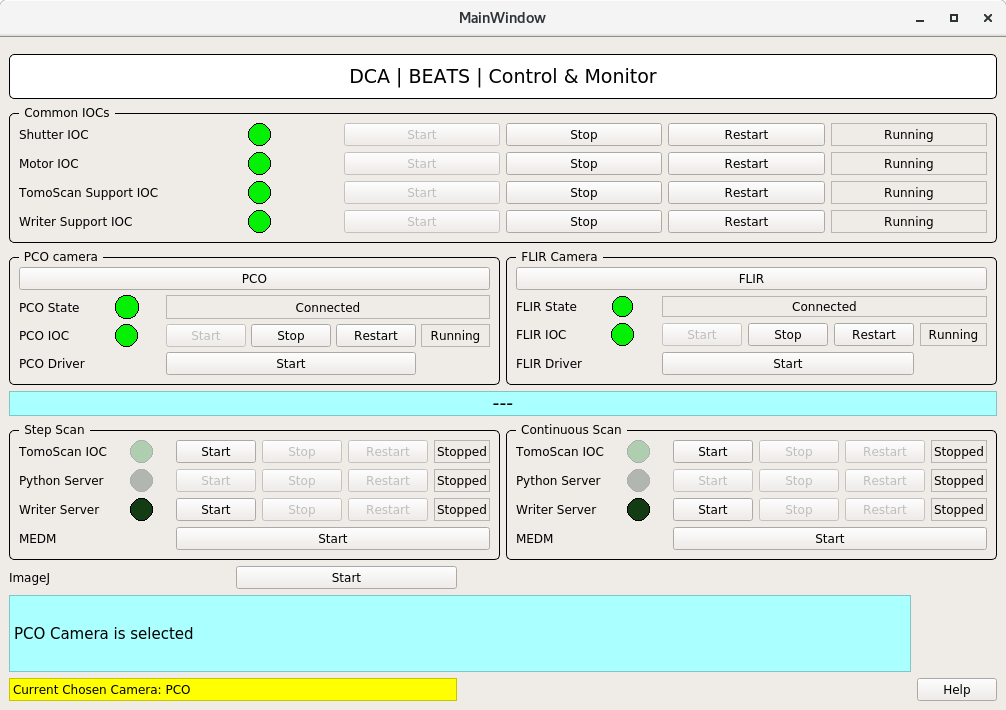
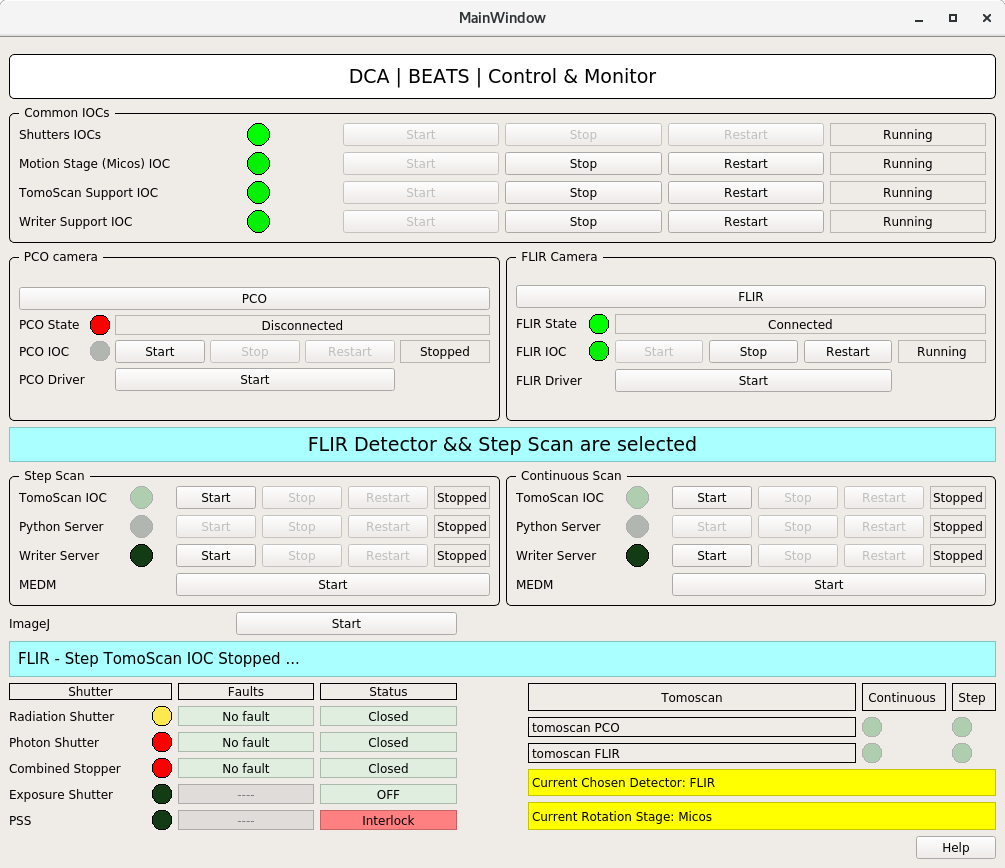
update, this version before final testing

diff --git a/BEATS_DAQ_Control_Monitor/mainwindow.cpp b/BEATS_DAQ_Control_Monitor/mainwindow.cpp
@@ -33,7 +33,7 @@ MainWindow::MainWindow(QWidget *parent)
     this->radiationShutterIOC         = new QEpicsPV("I10FE-PSS-PHST:getStatus");
     this->photonShutterIOC            = new QEpicsPV("I10FE-VA-PSH:getStatus");
     this->combinedStopperIOC          = new QEpicsPV("I10OH-VA-COMB:getStatus");
-    this->PSSIOC                      = new QEpicsPV("I10EH-SHUTTER:command");
+    this->PSSIOC                      = new QEpicsPV("I10OH-VA-COMB:isPSSInterlock");
 
     this->radiationShutterFault       = new QEpicsPV("I10FE-PSS-PHST:getFault");
     this->photonShutterFault          = new QEpicsPV("I10FE-VA-PSH:getFault");
@@ -70,7 +70,7 @@ MainWindow::MainWindow(QWidget *parent)
     this->radiationShutterIOC_SEVR    = new QEpicsPV("I10FE-PSS-PHST:getStatus.SEVR");
     this->photonShutterIOC_SEVR       = new QEpicsPV("I10FE-VA-PSH:getStatus.SEVR");
     this->combinedStopperIOC_SEVR     = new QEpicsPV("I10OH-VA-COMB:getStatus.SEVR");
-    this->PSSIOC_SEVR                 = new QEpicsPV("I10EH-SHUTTER:command.SEVR");
+    this->PSSIOC_SEVR                 = new QEpicsPV("I10OH-VA-COMB:isPSSInterlock.SEVR");
 
     this->PCO_TomoScanIOCStep_SEVR   = new QEpicsPV("tomoscanBEATS:PcoMicosStep:ScanStatus.SEVR");
     this->PCO_PythonServerStep_SEVR  = new QEpicsPV("tomoscanBEATS:PcoMicosStep:ServerRunning.SEVR");
@@ -553,6 +553,7 @@ void MainWindow::checkStatusH()
    radiationShutter              = this->radiationShutterIOC->get().toInt();
    photonShutter                 = this->photonShutterIOC->get().toInt();
    combinedStopper               = this->combinedStopperIOC->get().toInt();
+   PSS                           = this->PSSIOC->get().toBool();
 
    radiationShutterFault_        = this->radiationShutterFault->get().toInt();
    photonShutterFault_           = this->photonShutterFault->get().toInt();
@@ -587,7 +588,7 @@ void MainWindow::checkStatusH()
 //            ui->shutterIOCSts->setText(stopped);
 //    }
 
-       if (exposureShutterIOC_SEVR_ != NULL or radiationShutterIOC_SEVR_ != NULL or photonShutterIOC_SEVR_ != NULL or combinedStopperIOC_SEVR_ != NULL){
+       if (exposureShutterIOC_SEVR_ != NULL or radiationShutterIOC_SEVR_ != NULL or photonShutterIOC_SEVR_ != NULL or combinedStopperIOC_SEVR_ != NULL or PSSIOC_SEVR_ != NULL){
            ui->shutterIOCSts->setText(running);
            ui->shutterIOCInd->setColour0Property(QColor(0,255,0));
        }
@@ -679,8 +680,8 @@ void MainWindow::checkStatusH()
     /* --------------------------------------------------------------*/
 
 //    if (!(ui->shutterIOCStart->isEnabled() or ui->motorIOCStart->isEnabled() or ui->tomoScanSupportIOCStart->isEnabled() or ui->writerSupportIOCStart->isEnabled())){
-    if (!(ui->shutterIOCSts->text().toStdString() == "Check the IOCs" or ui->motorIOCStart->isEnabled() or ui->tomoScanSupportIOCStart->isEnabled() or ui->writerSupportIOCStart->isEnabled() or (radiationShutter != 3 or radiationShutterFault_ != 0) or (photonShutter != 3 or photonShutterFault_ != 0) or (combinedStopperFault_ != 0))){
-//    if (!(ui->motorIOCStart->isEnabled() or ui->tomoScanSupportIOCStart->isEnabled() or ui->writerSupportIOCStart->isEnabled())){
+//    if (!(ui->shutterIOCSts->text().toStdString() == "Check the IOCs" or ui->motorIOCStart->isEnabled() or ui->tomoScanSupportIOCStart->isEnabled() or ui->writerSupportIOCStart->isEnabled() or (radiationShutter != 3 or radiationShutterFault_ != 0) or (photonShutter != 3 or photonShutterFault_ != 0) or (combinedStopperFault_ != 0) or (PSS != 1))){
+    if (!(ui->motorIOCStart->isEnabled() or ui->tomoScanSupportIOCStart->isEnabled() or ui->writerSupportIOCStart->isEnabled())){
 
         ui->PCOGB->setEnabled(true);
         ui->FLIRGB->setEnabled(true);

diff --git a/docs/source/conf.py b/docs/source/conf.py
@@ -18,7 +18,7 @@
 # -- Project information -----------------------------------------------------
 
 project = 'BEATS Dashboard'
-copyright = '2022, Data Collection team of SESAME'
+copyright = '2023, Data Collection team of SESAME'
 author = 'Data Collection team SESAME'
 
 

diff --git a/BEATS_DAQ_Control_Monitor/mainwindow.h b/BEATS_DAQ_Control_Monitor/mainwindow.h
@@ -251,6 +251,7 @@ private:
     int radiationShutter;
     int photonShutter;
     int combinedStopper;
+    bool PSS;
 
     int radiationShutterFault_;
     int photonShutterFault_;

diff --git a/docs/source/MainWindow.rst b/docs/source/MainWindow.rst
@@ -1,7 +1,7 @@
 BEATS Dashboard 
 ===============================
 
-To access the BEATS Dashboard: 
+To access the BEATS Dashboard, type the following command: 
 ::
 
 	$ BEATS_DAQ_Control_Monitor
@@ -15,7 +15,7 @@ the main GUI will appear:
 
    *Figure 1: BEATS Dashboard main window*
 
-The BEATS Dashboard shown below is divided into three sections for controlling and three sections for monitoring:
+The BEATS Dashboard shown below is divided into three sections for controlling and five sections for monitoring:
 
 .. figure:: /images/BEATS_DashboardSections.png
    :align: center
@@ -31,8 +31,8 @@ Controlling Sections:
       -TomoScan Support IOC.
       -Writer Support IOC.
 
-* 2) Camera Type: The available detectors for the scanning.
-      -Detector Status (indicate if the (hardware, Software) is connected or not (Power, Ethernet, IOc)).
+* 2) Detector Type: The available detectors for the scanning.
+      -Detector Status (indicate if the (hardware, Software) is connected or not (Power, Ethernet, IOC)).
       -Detector IOC.
       -Detector Driver.
 
@@ -53,12 +53,14 @@ Controlling Sections:
 Monitoring Sections:
 * A) The detector type and the scanning technique are chosen.
 * B) The online logging (last log).
-* C) The current camera chosen.
+* C) Shutters Status.
+* D) Current tomoscan mode.
+* E) The current detector chosen & current rotation stage.
 
 Selecting Process
 ------------------
 
-The user has the option to choose the detector after opening the main window. Once the user has selected a detector, the *Current Chosen Camera* will display their selection.
+The user has the option to choose the detector after opening the main window. Once the user has selected a detector, the *Current Chosen Detector* will display their selection.
 Following that, the user has the option to choose the scanning technique. Once the user has selected a scanning method (started the Tomoscan IOC), the *detector type and scanning technique* will display their choice. Additionally, as shown below, the other types of detectors will be disabled and the other scanning techniques hidden.
 
 .. figure:: /images/SelectingProcess.png
@@ -69,10 +71,19 @@ Following that, the user has the option to choose the scanning technique. Once t
    
 To change the detector type or scanning technique, the current process (TomoScan) must be stopped.
 
+.. note:: All operations will be opened in tmux sessions, to attach any session, write the following commands:
+   ::
+      $ tmux ls
+      $ tmux a -t "session name"
+      $ Esc, Ctrl b ,d (to de-attach the session) 
 
 .. warning:: There is an interlocking between (Start, Stop, Restart) for all operations, it depends on the status of the IOCs if it is running or not.
 
 .. warning:: If one of the common IOCs is stopped, the other controlling sections will be disabled until all the common IOCs are running.
+
+.. warning:: If the radiation or photon shutters are closed or PSS is interlocked, the other controlling sections will be disabled until all the common IOCs are running.
+
+.. warning:: If the radiation, photon or combined stopper shutters have faults, the other controlling sections will be disabled until all the common IOCs are running.
 
 .. note:: In scanning techniques section, the python server (start button) is disabled until the tomoscan IOC is started. 
 
@@ -81,4 +92,3 @@ To change the detector type or scanning technique, the current process (TomoScan
 .. warning:: If the detector's IOC is stopped and you select any detector type, you cannot start the scan until the IOC is running.
 
 .. note:: If the GUI is unexpectedly closed and then reopened, selecting one of the detectors will show the current choice if one of the other sections is hidden or disabled.
-

diff --git a/docs/source/features.rst b/docs/source/features.rst
@@ -7,7 +7,8 @@ At the moment, the BEATS dashboard has the following features:
 
 * User friendly GUI
 * Control and monitor the IOCs and scanning methodology (Tomoscan) based on the camera type.
-* Online (last log) logging.
+* Online logging (last log).
+* Shutters Status Monitoring.
 * Public documentation targeting end-users (how-to).
 
 Scanning tool | future plan
